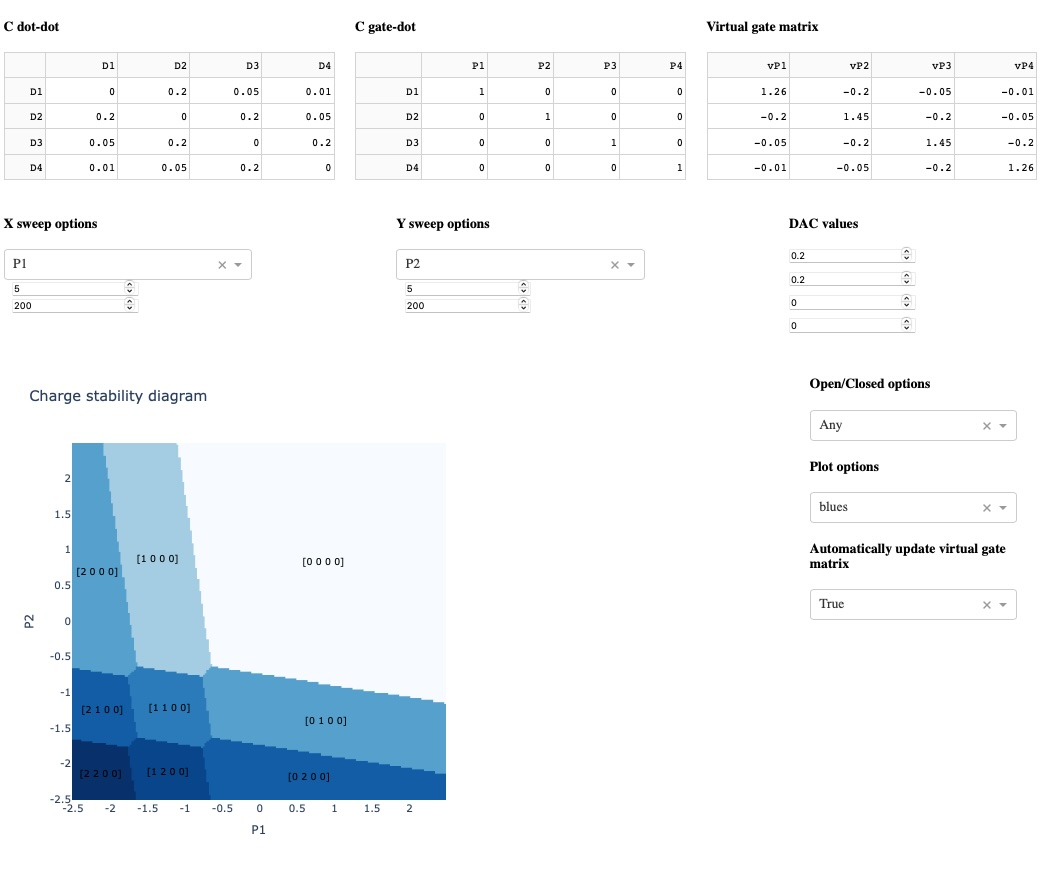
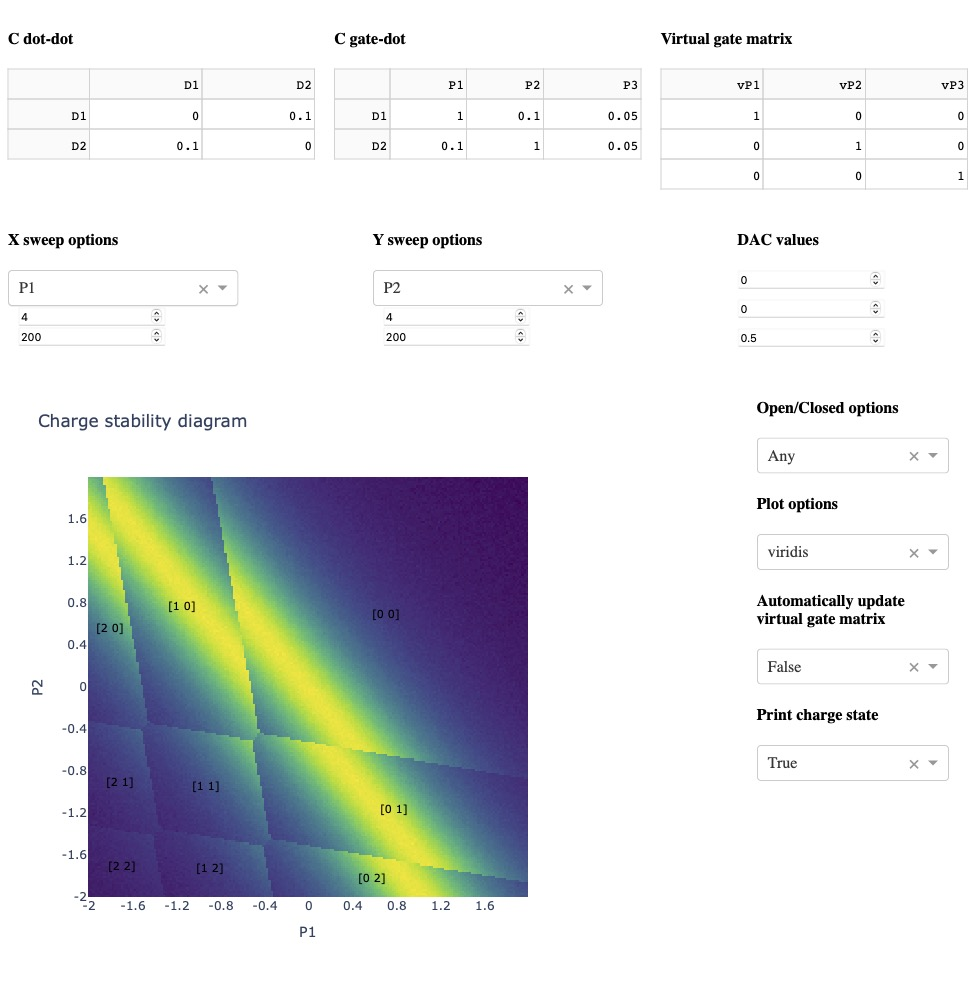
updating docs and adding the possibility of plotting the gradient of the charge sensor in the GUI.
pypi
documentation

diff --git a/qarray/gui/gui_charge_sensor.py b/qarray/gui/gui_charge_sensor.py
@@ -223,6 +223,21 @@ def run_gui_charge_sensor(model, port=9000, run=True, print_compute_time=True, i
                         {'label': 'False', 'value': 'False'}
                     ],
                     value='True'
+                ),
+
+                html.H4("Plot gradient"),
+                dcc.Dropdown(
+                    id='plot gradient',
+                    placeholder='Whether to plot the gradient of the charge sensor signal',
+                    options=[
+                        {'label': 'True', 'value': 'True'},
+                        {'label': 'False', 'value': 'False'},
+                        {'label': 'Along x axis', 'value': 'Along x'},
+                        {'label': 'Along y axis', 'value': 'Along y'},
+                        {'label': 'Along detuning axis', 'value': 'Along detuning axis'},
+                        {'label': 'Magnitude', 'value': 'Magnitude'},
+                    ],
+                    value='False'
                 )
             ], style={'width': '20%', 'margin-right': '2%'}),
 
@@ -245,17 +260,14 @@ def run_gui_charge_sensor(model, port=9000, run=True, print_compute_time=True, i
          Input('plot-options', 'value'),
          Input('automatically-update-virtual-gate-matrix', 'value'),
          Input('print_charge_state', 'value'),
+         Input('plot gradient', 'value'),
          *[Input(f'dac_{i}', 'value') for i in range(model.n_gate)]]
     )
     def update(Cdd, Cgd, virtual_gate_matrix, x_gate, x_amplitude, x_resolution, y_gate, y_amplitude, y_resolution,
-               n_charges, plot_options, automatically_update_virtual_gate_matrix, print_charge_state, *dac_values):
+               n_charges, plot_options, automatically_update_virtual_gate_matrix, print_charge_state, plot_gradient, *dac_values):
         """
         Update the heatmap based on the input values.
         """
-
-        if model.T != 0:
-            print('Warning the GUI plotting currently only works for T=0. The temperature is set to 0.')
-            model.T = 0
 
         dac_values = np.array(dac_values)
 
@@ -305,6 +317,10 @@ def run_gui_charge_sensor(model, port=9000, run=True, print_compute_time=True, i
             z, n = model.charge_sensor_open(vg)
         else:
             z, n = model.charge_sensor_closed(vg, n_charge=n_charges)
+
+        #if T> 0, we need to round the charge state
+        n = np.round(n).astype(int)
+
         t1 = perf_counter()
         if print_compute_time:
             print(f'Time taken to compute the charge state: {t1 - t0:.3f}s')
@@ -312,6 +328,21 @@ def run_gui_charge_sensor(model, port=9000, run=True, print_compute_time=True, i
         if plot_options in px.colors.named_colorscales():
             cmap = plot_options
             z = z.squeeze()
+
+            match plot_gradient:
+                case 'False':
+                    pass
+                case 'Along x':
+                    z = np.gradient(z, axis=1)
+                case 'Along y':
+                    z = np.gradient(z, axis=0)
+                case 'Magnitude':
+                    z = np.sqrt(np.gradient(z, axis=0) ** 2 + np.gradient(z, axis=1) ** 2)
+                case 'Along detuning axis':
+                    z = np.gradient(z, axis=0) - np.gradient(z, axis=1)
+                case _:
+                    raise ValueError(f'Plot gradient {plot_gradient} is not recognized the options are "False", "Along x", "Along y" or "magnitude"')
+
         elif plot_options == 'changes':
             z = charge_state_changes(n).astype(float)
             cmap = 'greys'
@@ -336,7 +367,7 @@ def run_gui_charge_sensor(model, port=9000, run=True, print_compute_time=True, i
         fig.update_xaxes(title_text=x_gate, ticktext=x_text, tickvals=x_tickvals)
         fig.update_yaxes(title_text=y_gate, ticktext=y_text, tickvals=y_tickvals)
 
-        charge_states = unique_last_axis(n)
+        charge_states = unique_last_axis(np.round(n).astype(int))
 
         if print_charge_state == 'False':
             return fig, virtual_gate_matrix.to_dict('records')

diff --git a/examples/gui_sensor.py b/examples/gui_sensor.py
@@ -6,20 +6,47 @@ Date: 07/12/2024
 from qarray import ChargeSensedDotArray
 from qarray.noise_models import WhiteNoise, TelegraphNoise, NoNoise
 
-# defining the capacitance matrices
-Cdd = [[0., 0.1], [0.1, 0.]]  # an (n_dot, n_dot) array of the capacitive coupling between dots
-Cgd = [[1., 0.1, 0.05], [0.1, 1., 0.05]]  # an (n_dot, n_gate) array of the capacitive coupling between gates and dots
-Cds = [[0.05, 0.00]]  # an (n_sensor, n_dot) array of the capacitive coupling between dots and sensors
-Cgs = [[0.06, 0.05, 1]]  # an (n_sensor, n_gate) array of the capacitive coupling between gates and sensor dots
+
+
+
+
+# # # defining the capacitance matrices for a double dot
+# Cdd = [[0., 0.1],
+#        [0.1, 0.]]  # an (n_dot, n_dot) array of the capacitive coupling between dots
+# Cgd = [[1., 0.1, 0.05],
+#        [0.1, 1., 0.05]]  # an (n_dot, n_gate) array of the capacitive coupling between gates and dots
+# Cds = [[0.05, 0.03]]  # an (n_sensor, n_dot) array of the capacitive coupling between dots and sensors
+# Cgs = [[0.06, 0.05, 1]]  # an (n_sensor, n_gate) array of the capacitive coupling between gates and sensor dots
+# initial_dac_values = [0, 0.0, 0.5]
+
+
+# # defining the capacitance matrices for a linear array of 4 dots, uncomment this block and comment the previous block to switch
+# # with the sensor on the left hand side
+# Cdd = [
+#     [0., 0.2, 0.05, 0.01],
+#     [0.2, 0., 0.2, 0.05],
+#     [0.05, 0.2, 0.0, 0.2],
+#     [0.01, 0.05, 0.2, 0]
+# ]
+# Cgd = [
+#     [1., 0.1, 0.05, 0.01, 0.1],
+#     [0.1, 1., 0.1, 0.05, 0.002],
+#     [0.05, 0.1, 1., 0.1, 0.001],
+#     [0.01, 0.05, 0.1, 1, 0.000]
+# ]
+#
+# Cds = [[0.1, 0.05, 0.001, 0.000]]  # an (n_sensor, n_dot) array of the capacitive coupling between dots and sensors
+# Cgs = [[0.1, 0.04, 0.003, 0.000, 1]]  # an (n_sensor, n_gate) array of the capacitive coupling between gates and sensor dots
+# initial_dac_values = [0, 0, 0., 0.0, 0.5]
+
 
 noise_model = WhiteNoise(amplitude=1e-2)
 
 # creating the model
 model = ChargeSensedDotArray(
     Cdd=Cdd, Cgd=Cgd, Cds=Cds, Cgs=Cgs,
-    coulomb_peak_width=0.1, T=0,
-    implementation='rust', algorithm='default',
+    coulomb_peak_width=0.1,
+    T=100, # mK
     noise_model=noise_model
 )
-initial_dac_values = [0, 0, 0.5]
 model.gui(initial_dac_values = initial_dac_values)

diff --git a/qarray/DotArrays/ChargeSensedDotArray.py b/qarray/DotArrays/ChargeSensedDotArray.py
@@ -10,7 +10,7 @@ from ..functions import compute_optimal_virtual_gate_matrix
 
 from .GateVoltageComposer import GateVoltageComposer
 from ._helper_functions import check_algorithm_and_implementation, \
-    check_and_warn_user, lorentzian, convert_to_maxwell, _convert_to_maxwell_with_sensor
+    check_and_warn_user, lorentzian, convert_to_maxwell, _convert_to_maxwell_with_sensor, suppress_output
 from .ground_state import _ground_state_open, _ground_state_closed
 from ..functions import _optimal_Vg, compute_threshold
 from ..latching_models import LatchingBaseModel
@@ -18,6 +18,7 @@ from ..noise_models import BaseNoiseModel
 from ..python_implementations.helper_functions import free_energy
 from ..qarray_types import CddNonMaxwell, CgdNonMaxwell, VectorList, CdsNonMaxwell, CgsNonMaxwell, Vector, \
     PositiveValuedMatrix
+
 
 
 @dataclass
@@ -60,9 +61,9 @@ class ChargeSensedDotArray:
     polish: bool = True  # a bool specifying whether to polish the result of the ground state computation
     max_charge_carriers: int | None = None  # need if using a brute_force algorithm
     batch_size: int | None = None  # needed if using jax implementation
-    charge_carrier = 'h'
+    charge_carrier: str = 'h'
 
-    T: float | int = 0.  # the temperature of the system
+    T: float | int = 0.  # the temperature of the system in mK
     n_peak: int = 5
 
     coulomb_peak_width: float = 0.1  # the width of the lorentzian peaks
@@ -142,6 +143,7 @@ class ChargeSensedDotArray:
         A function to open the GUI for the ChargeSensedDotArray class
         """
         from ..gui.gui_charge_sensor import run_gui_charge_sensor
+
         run_gui_charge_sensor(self, port = port, run = run, print_compute_time = print_compute_time, initial_dac_values = initial_dac_values)
 
     def compute_optimal_virtual_gate_matrix(self):

diff --git a/qarray/DotArrays/_helper_functions.py b/qarray/DotArrays/_helper_functions.py
@@ -8,6 +8,23 @@ import numpy as np
 from qarray.functions import compute_threshold
 from ..qarray_types import (CddInv, Cdd, VectorList, CddNonMaxwell, CgdNonMaxwell, NegativeValuedMatrix)
 
+import sys
+from contextlib import contextmanager
+from io import StringIO
+
+@contextmanager
+def suppress_output():
+    """Context manager to suppress all output to the terminal."""
+    original_stdout = sys.stdout
+    original_stderr = sys.stderr
+    try:
+        sys.stdout = StringIO()  # Redirect stdout to a dummy buffer
+        sys.stderr = StringIO()  # Redirect stderr to a dummy buffer
+        yield
+    finally:
+        sys.stdout = original_stdout
+        sys.stderr = original_stderr
+
 
 def _convert_to_maxwell_with_sensor(cdd_non_maxwell: CddNonMaxwell, cgd_non_maxwell: CgdNonMaxwell,
                                     cds_non_maxwell: CddNonMaxwell, cgs_non_maxwell: CgdNonMaxwell):
